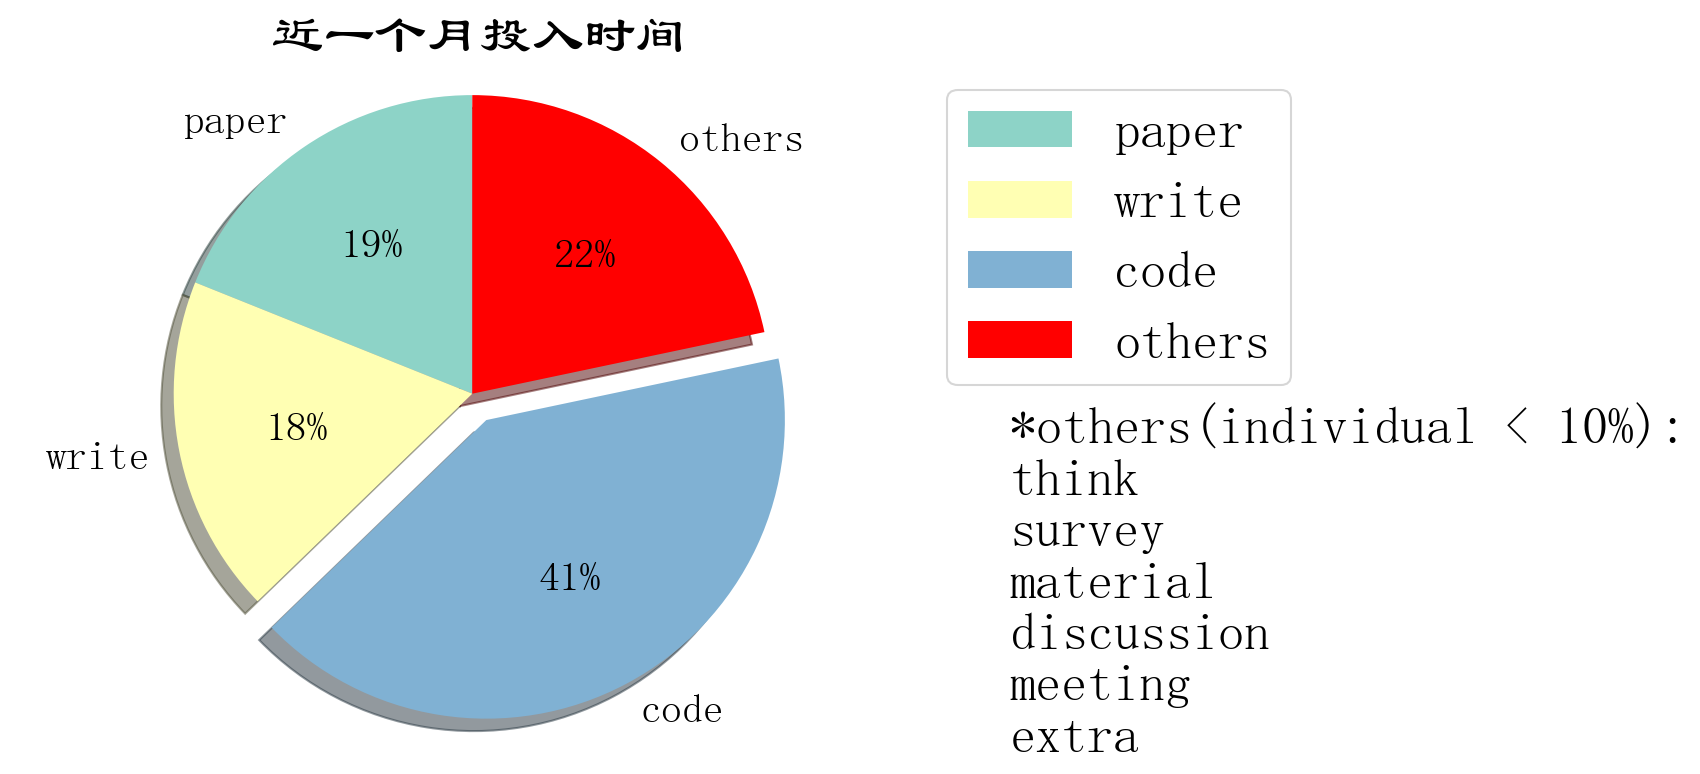
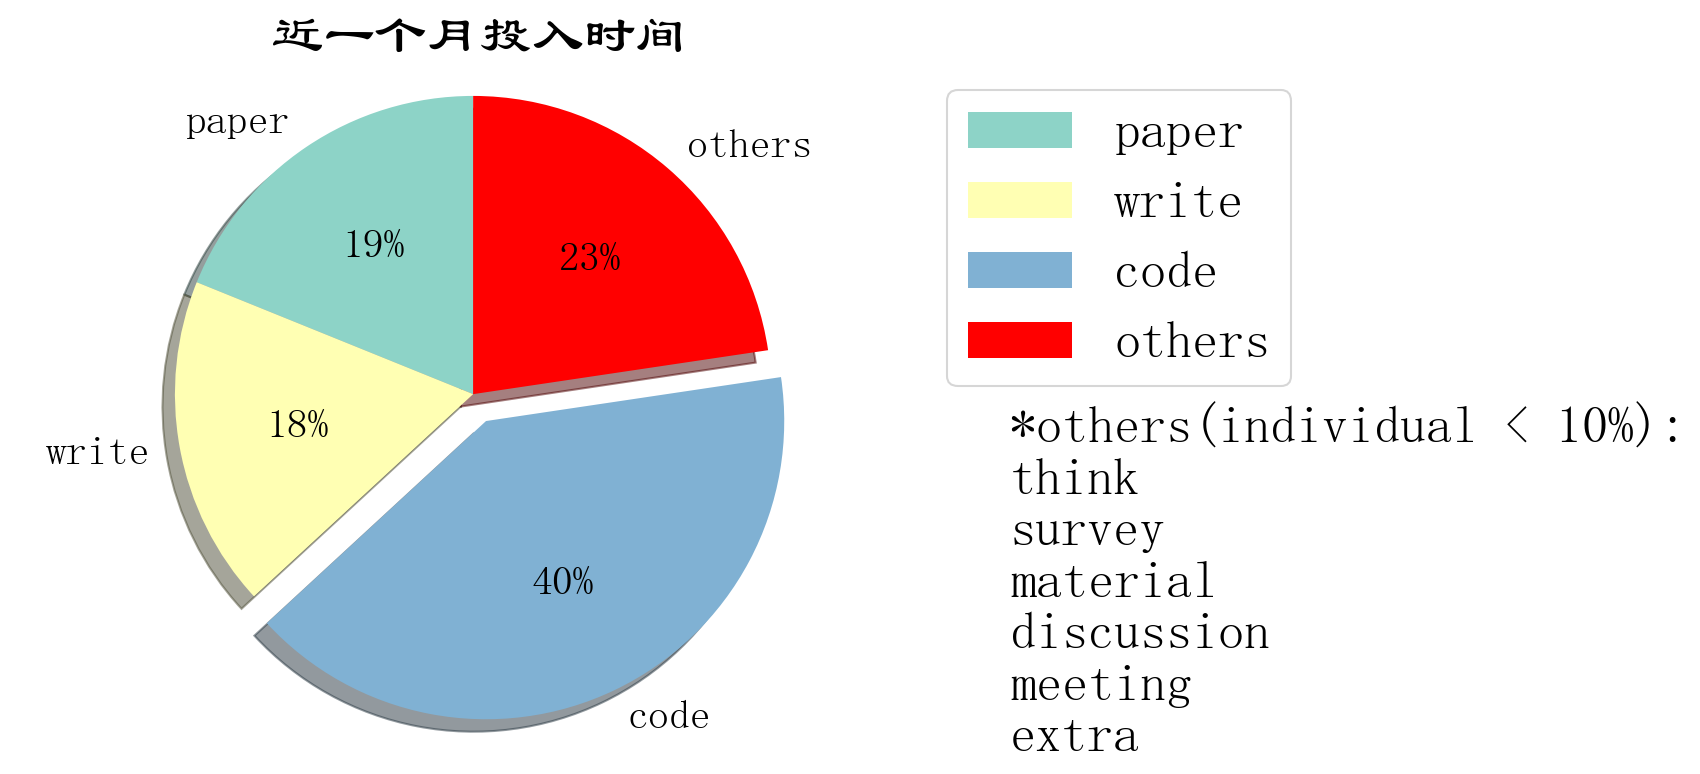
fix figure5 bug

diff --git a/src/utils/data_analyze.py b/src/utils/data_analyze.py
@@ -2,7 +2,7 @@
 Author: Holmescao
 Date: 2021-03-16 13:17:04
 LastEditors: Holmescao
-LastEditTime: 2021-03-21 22:46:53
+LastEditTime: 2021-03-23 14:30:30
 Description: 通过可视化分析时间管理情况，并自动将分析结果插入到相应文件中。
 '''
 
@@ -330,7 +330,7 @@ class ActivateAnalyze:
             fig_id ([type]): 图片编号
             fig_name ([type]): 图片名称
         """
-        NdayActivateTime = LastNdayActivateTime(self.last_week, back_days=30)
+        NdayActivateTime = LastNdayActivateTime(self.last_month, back_days=30)
         self.activate = SumTimePerDay(NdayActivateTime)
 
         self.fig_path = generate_fig_path(date_list=GetNDayList(30),
